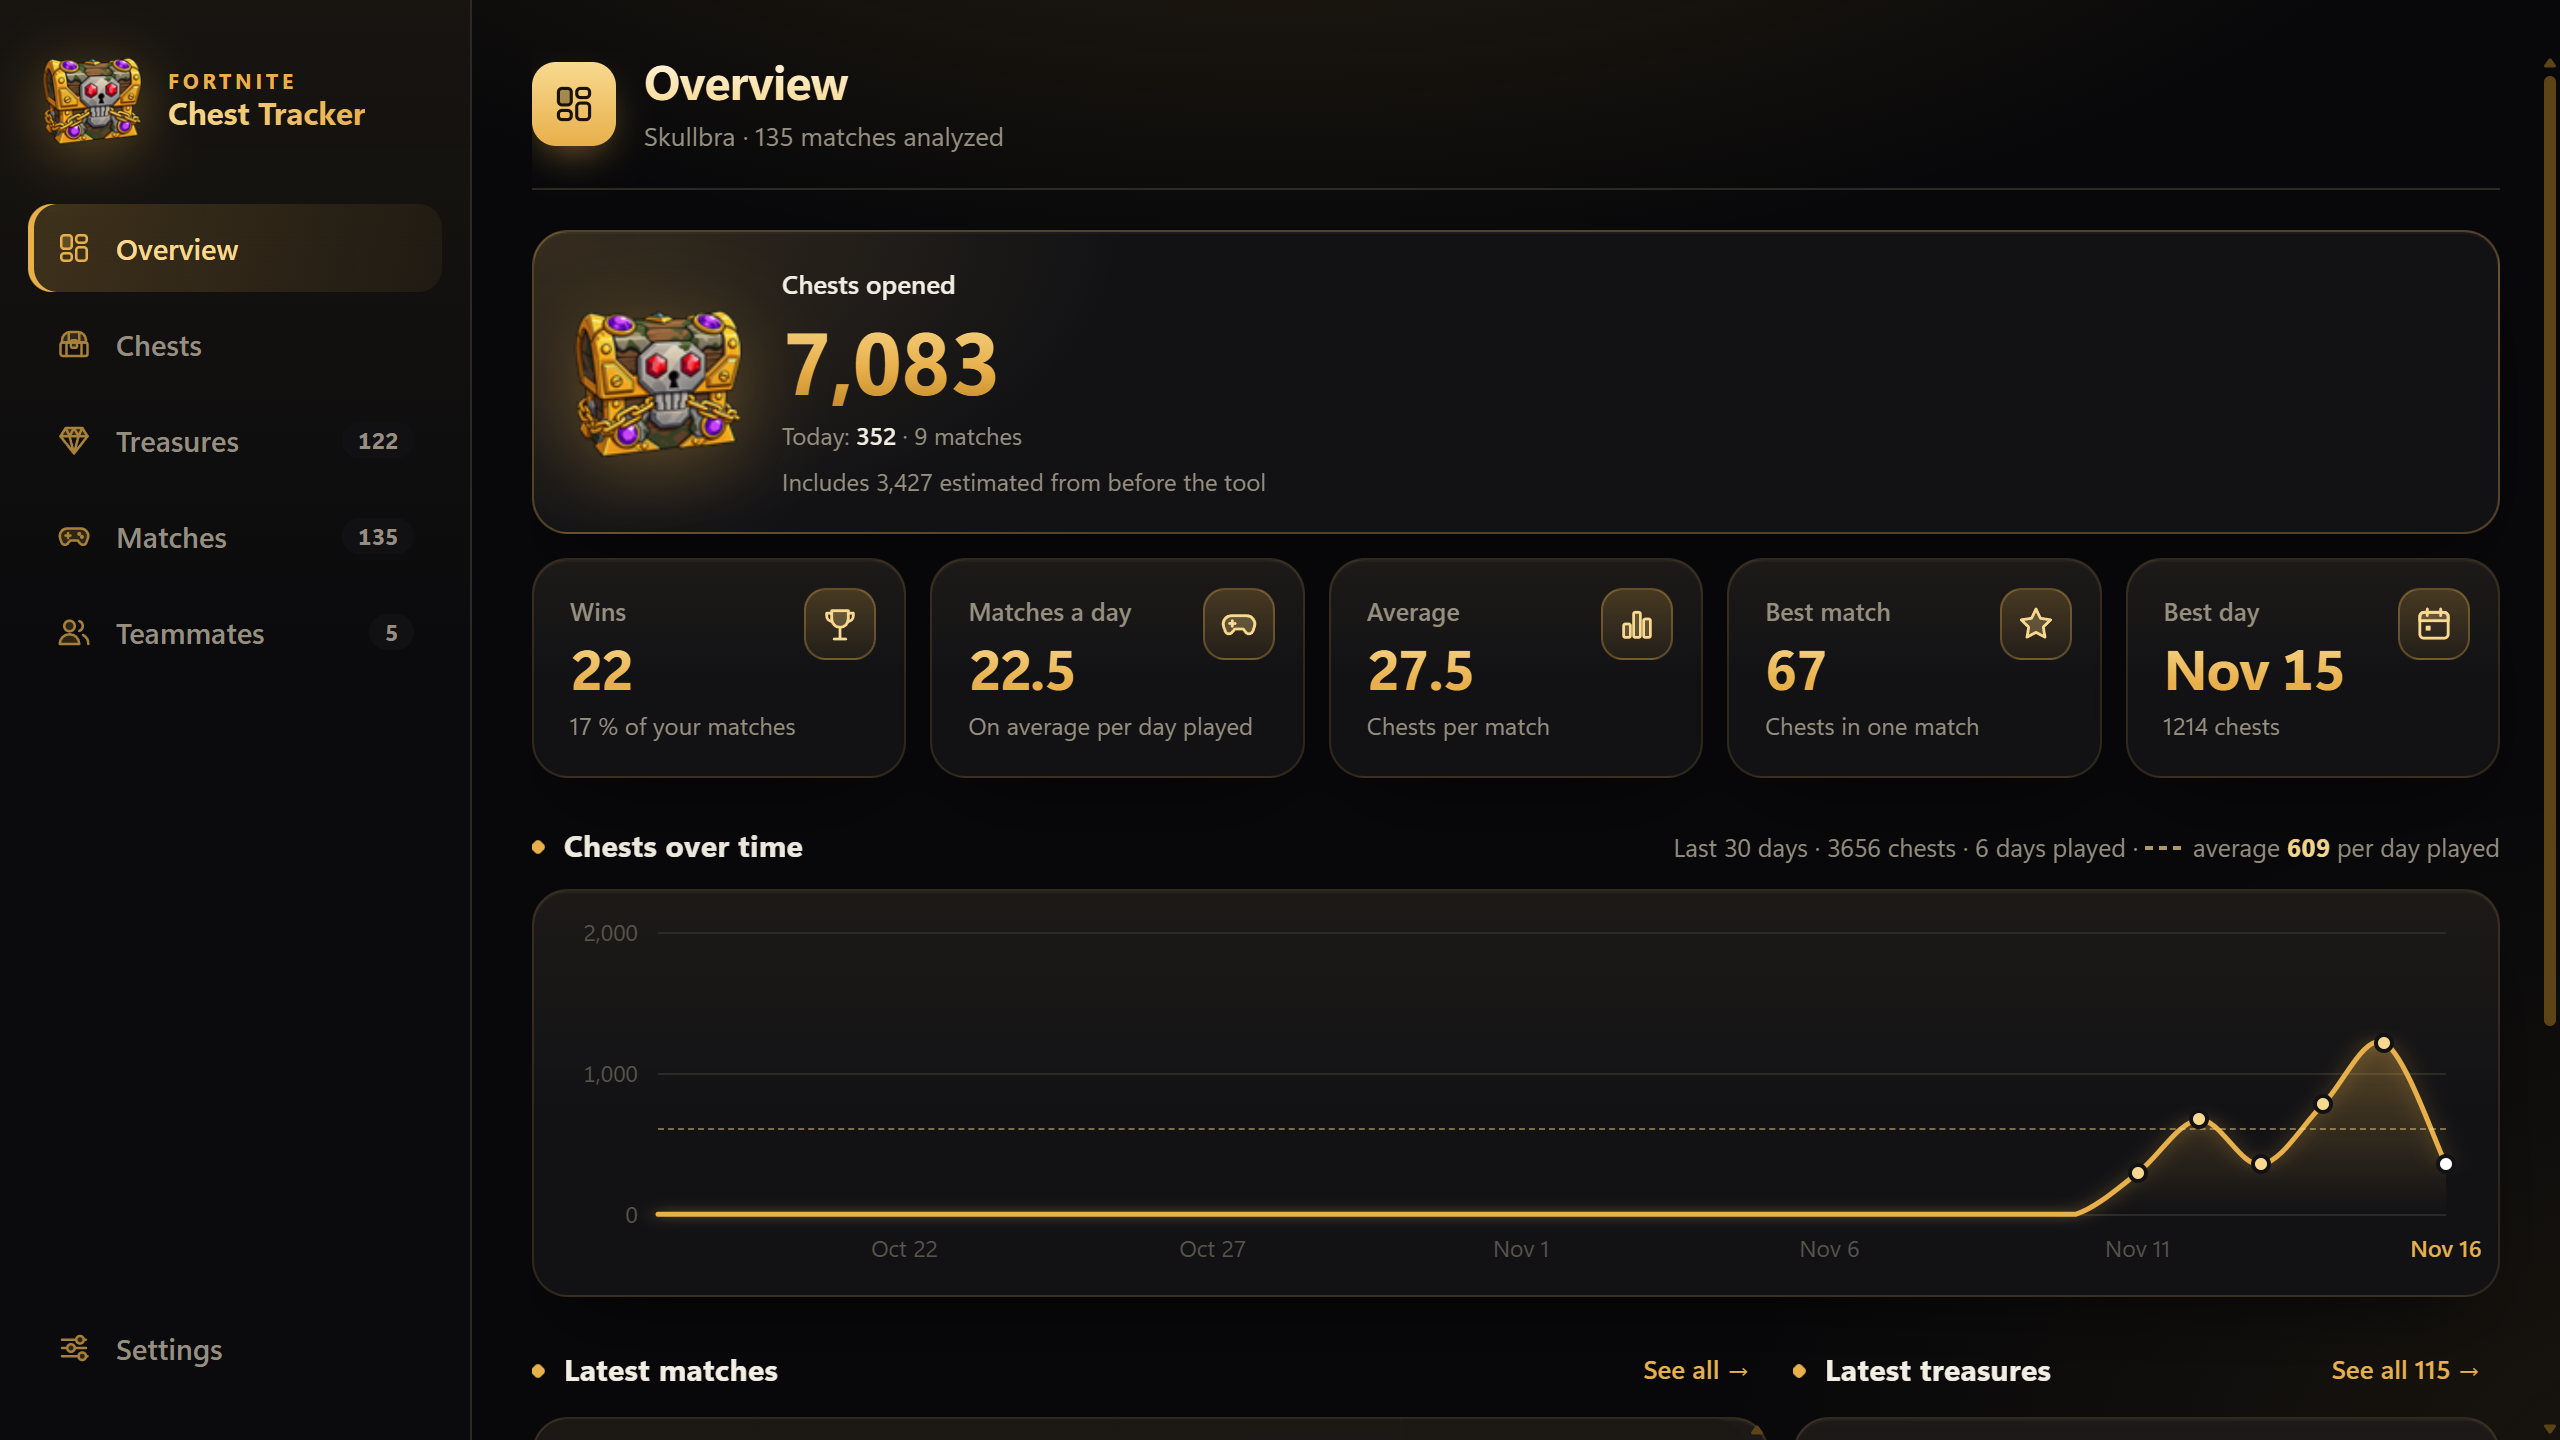
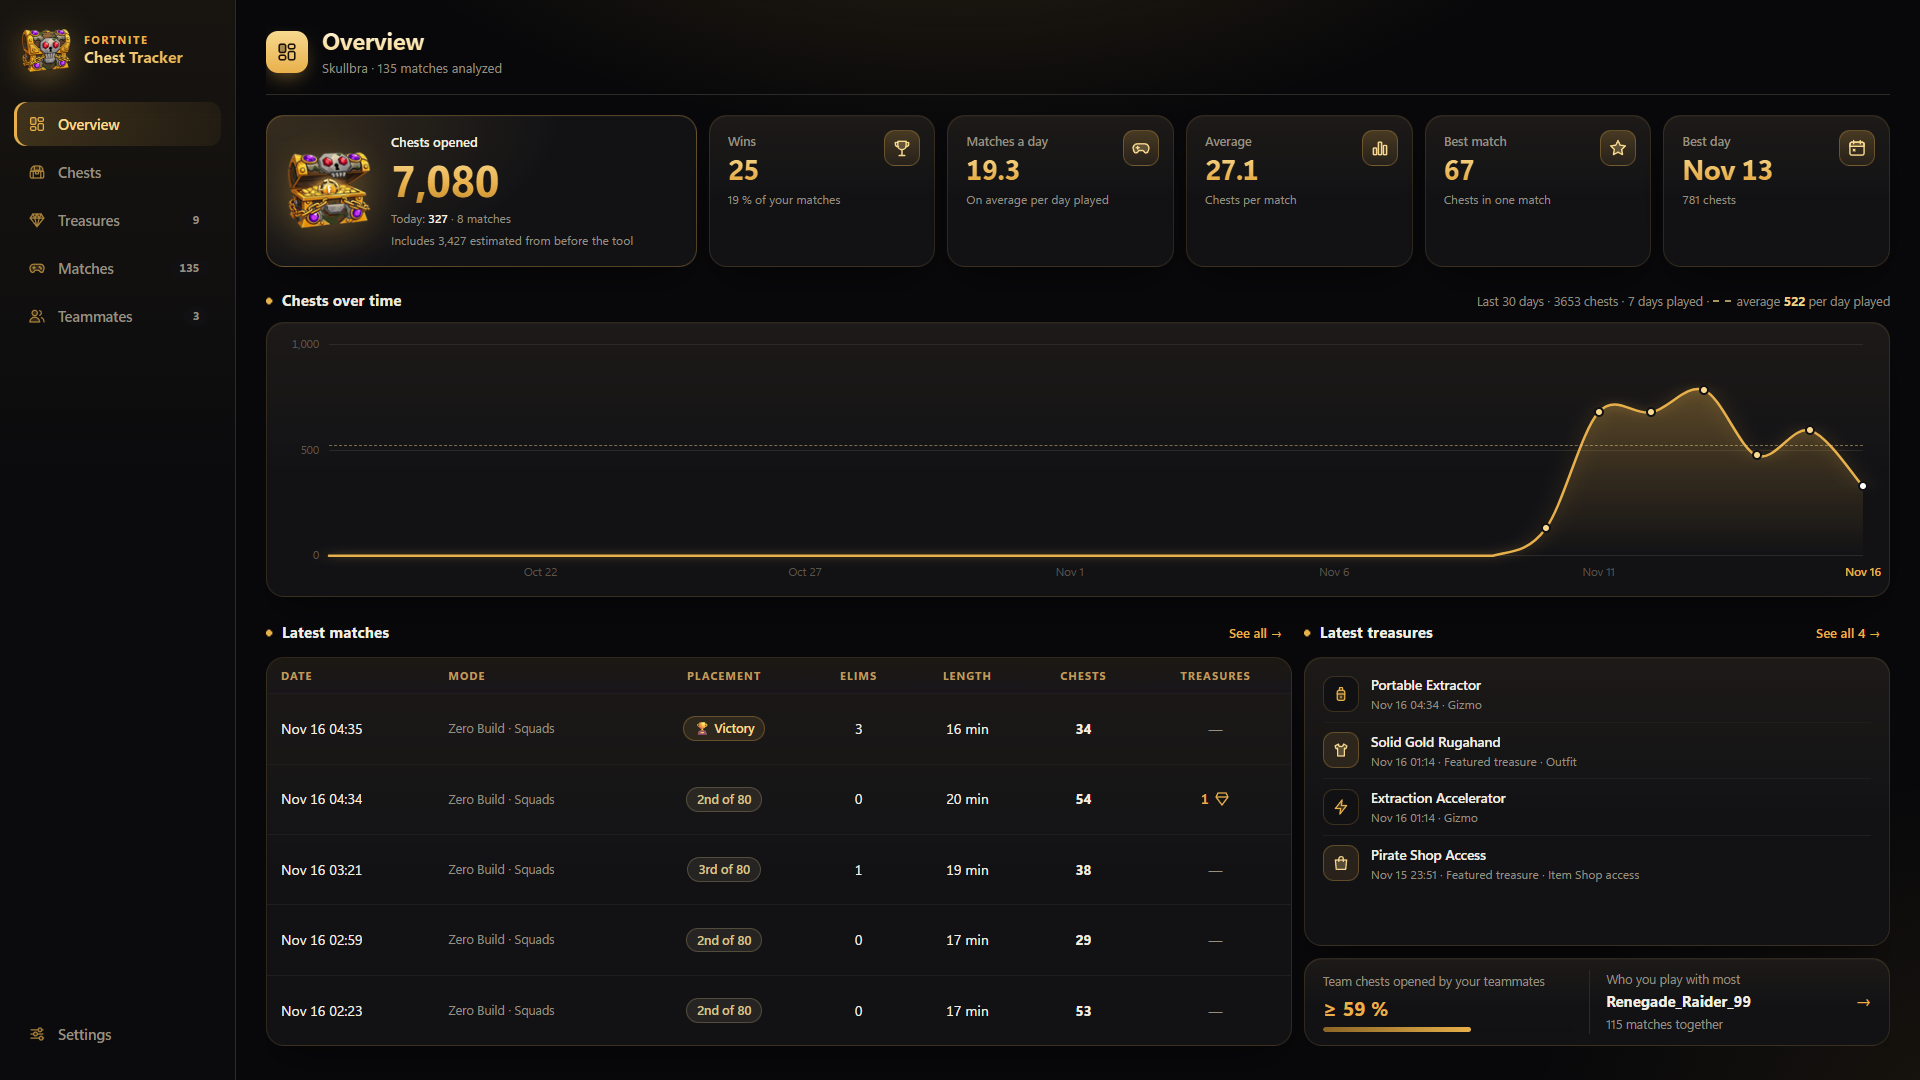
docs: actualizar landing page bilingüe y capturas mock con Skullbra y skins

diff --git a/docs/index.html b/docs/index.html
@@ -854,6 +854,7 @@
         <a href="#funciones" data-i18n="nav_features">Funciones</a>
         <a href="#tesoros-rivales" data-i18n="nav_rivals">Tesoros y Rivales</a>
         <a href="#overlay" data-i18n="nav_overlay">Overlay</a>
+        <a href="#desktop-app" data-i18n="nav_app">App</a>
         <a href="#faq" data-i18n="nav_faq">Preguntas frecuentes</a>
       </nav>
 
@@ -925,7 +926,7 @@
       <!-- Main Showcase Preview -->
       <div class="hero-preview">
         <div class="preview-window">
-          <img src="images/main-es.png" data-i18n-src-es="images/main-es.png" data-i18n-src-en="images/main-en.png" alt="Ventana principal de Fortnite Chest Tracker" id="img-main">
+          <img src="images/stats-summary-es.png" data-i18n-src-es="images/stats-summary-es.png" data-i18n-src-en="images/stats-summary-en.png" alt="Panel de estadísticas de Fortnite Chest Tracker" id="img-main">
         </div>
 
         <div class="floating-overlay-card">
@@ -955,7 +956,7 @@
           <p data-i18n-html="card1_desc">
             Lleva el seguimiento de los cosméticos semanales que vas desbloqueando y descubre de inmediato si has obtenido el cotizado <strong>Acceso a la Tienda Pirata</strong>.
           </p>
-          <img src="images/stats-treasures-es.png" data-i18n-src-es="images/stats-treasures-es.png" data-i18n-src-en="images/stats-treasures-en.png" alt="Lista de tesoros conseguidos" class="card-img" id="img-treasures">
+          <img src="images/hook-treasures-es.png" data-i18n-src-es="images/hook-treasures-es.png" data-i18n-src-en="images/hook-treasures-en.png" alt="Lista de tesoros conseguidos" class="card-img" id="img-treasures">
         </div>
 
         <!-- Card 2 -->
@@ -967,7 +968,7 @@
           <p data-i18n="card2_desc">
             Al instalar la app, FCT analiza tus partidas guardadas y tus estadísticas para calcular cuántos cientos de cofres llevas abiertos en toda la temporada actual.
           </p>
-          <img src="images/stats-summary-es.png" data-i18n-src-es="images/stats-summary-es.png" data-i18n-src-en="images/stats-summary-en.png" alt="Resumen de estadísticas y estimación" class="card-img" id="img-summary">
+          <img src="images/hook-estimation-es.png" data-i18n-src-es="images/hook-estimation-es.png" data-i18n-src-en="images/hook-estimation-en.png" alt="Resumen de estadísticas y estimación" class="card-img" id="img-summary">
         </div>
 
         <!-- Card 3 -->
@@ -979,7 +980,7 @@
           <p data-i18n="card3_desc">
             Descubre quién lootea más en tu grupo. FCT desglosa los cofres abiertos por cada compañero de tu squad en cada una de vuestras partidas juntos.
           </p>
-          <img src="images/stats-teammates-es.png" data-i18n-src-es="images/stats-teammates-es.png" data-i18n-src-en="images/stats-teammates-en.png" alt="Estadísticas de compañeros de escuadrón" class="card-img" id="img-teammates">
+          <img src="images/hook-teammates-es.png" data-i18n-src-es="images/hook-teammates-es.png" data-i18n-src-en="images/hook-teammates-en.png" alt="Estadísticas de compañeros de escuadrón" class="card-img" id="img-teammates">
         </div>
       </div>
     </section>
@@ -1014,7 +1015,7 @@
       </div>
 
       <div>
-        <img src="images/stats-treasures-es.png" data-i18n-src-es="images/stats-treasures-es.png" data-i18n-src-en="images/stats-treasures-en.png" alt="Tabla de tesoros de rivales" class="spotlight-img" id="img-spotlight">
+        <img src="images/hook-rivals-es.png" data-i18n-src-es="images/hook-rivals-es.png" data-i18n-src-en="images/hook-rivals-en.png" alt="Tabla de tesoros de rivales" class="spotlight-img" id="img-spotlight">
       </div>
     </section>
 
@@ -1032,6 +1033,22 @@
       <div style="display:flex; justify-content:center; gap:24px; flex-wrap:wrap">
         <img src="images/overlay-live-es.png" data-i18n-src-es="images/overlay-live-es.png" data-i18n-src-en="images/overlay-live-en.png" alt="Overlay durante la partida" style="max-width:340px; border-radius:14px; border:1px solid var(--line2); box-shadow:var(--shadow)" id="img-overlay-1">
         <img src="images/overlay-between-es.png" data-i18n-src-es="images/overlay-between-es.png" data-i18n-src-en="images/overlay-between-en.png" alt="Overlay entre partidas" style="max-width:340px; border-radius:14px; border:1px solid var(--line2); box-shadow:var(--shadow)" id="img-overlay-2">
+      </div>
+    </section>
+
+    <!-- Desktop App Section -->
+    <section id="desktop-app" style="margin: 80px 0; text-align: center;">
+      <div class="section-title">
+        <span data-i18n="app_sec_sub">Ligera y silenciosa</span>
+        <h2 data-i18n="app_sec_title">App de Escritorio para Windows</h2>
+      </div>
+
+      <p style="color: var(--muted); max-width: 650px; margin: 0 auto 32px; font-size: 15.5px;" data-i18n="app_sec_desc">
+        Sin instalaciones complejas. Un único ejecutable portátil que apenas consume memoria, se minimiza a la bandeja del sistema y actualiza tus estadísticas en segundo plano.
+      </p>
+
+      <div style="display:flex; justify-content:center;">
+        <img src="images/main-es.png" data-i18n-src-es="images/main-es.png" data-i18n-src-en="images/main-en.png" alt="Ventana de FCT en Windows" style="max-width:540px; width:100%; border-radius:16px; border:1px solid var(--line2); box-shadow:var(--shadow)" id="img-app-window">
       </div>
     </section>
 
@@ -1154,6 +1171,7 @@
         nav_features: "Funciones",
         nav_rivals: "Tesoros y Rivales",
         nav_overlay: "Overlay",
+        nav_app: "App",
         nav_faq: "Preguntas frecuentes",
         nav_cta: "Descargar Gratis",
         hero_badge: "Temporada Cazadores de Tesoros · Capítulo 7",
@@ -1187,6 +1205,9 @@
         overlay_sec_sub: "Sin perder un solo FPS",
         overlay_sec_title: "Overlay en Pantalla para OBS y tu Juego",
         overlay_sec_desc: "Se activa solo cuando Fortnite está abierto. Puedes moverlo con el ratón a la esquina que prefieras, fijarlo encima del juego o capturarlo como fuente independiente en OBS Studio.",
+        app_sec_sub: "Ligera y silenciosa",
+        app_sec_title: "App de Escritorio para Windows",
+        app_sec_desc: "Sin instalaciones complejas. Un único ejecutable portátil que apenas consume memoria, se minimiza a la bandeja del sistema y actualiza tus estadísticas en segundo plano.",
         faq_sub: "Dudas resueltas",
         faq_title: "Preguntas Frecuentes",
         faq_q1: "¿Me pueden banear por usar Fortnite Chest Tracker?",
@@ -1218,6 +1239,7 @@
         nav_features: "Features",
         nav_rivals: "Treasures & Rivals",
         nav_overlay: "Overlay",
+        nav_app: "Desktop App",
         nav_faq: "FAQ",
         nav_cta: "Free Download",
         hero_badge: "Treasure Hunters Season · Chapter 7",
@@ -1251,6 +1273,9 @@
         overlay_sec_sub: "Zero FPS impact",
         overlay_sec_title: "In-Game Overlay for OBS & Gameplay",
         overlay_sec_desc: "Only shows up while Fortnite is running. Drag it anywhere with your mouse, pin it on screen, or capture it as a clean source in OBS Studio.",
+        app_sec_sub: "Lightweight & Quiet",
+        app_sec_title: "Native Desktop App for Windows",
+        app_sec_desc: "Zero complicated setup. A standalone portable executable that runs smoothly in the background, minimizes to the system tray, and updates your stats live.",
         faq_sub: "Answers to your questions",
         faq_title: "Frequently Asked Questions",
         faq_q1: "Can I get banned for using Fortnite Chest Tracker?",
